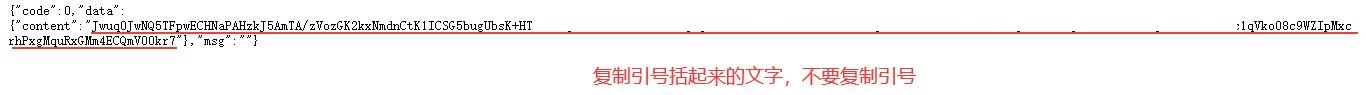
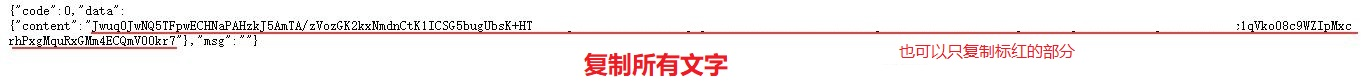
token json loads

Changed region(s): [[0.0, 0.0494, 1.0, 0.6173], [0.4305, 0.5432, 0.7994, 0.9383]]

diff --git a/templates/index.html b/templates/index.html
@@ -13,14 +13,14 @@
 
     <form class="form-inline" role="form" id="tokenform" action="/" method="post">
       <div class="form-group">
-        <input type="text" class="form-control" id="token" name="token" placeholder="请输入 token">
+        <input type="text" class="form-control" id="token" name="token" placeholder="请输入 token/所有文字">
       </div>
     </form>
     {% if new_acc_info %}
       {% if not new_acc_info.None %}
         <form class="form-inline" style="display: none" role="form" id="addform" action="/api/acc/add" method="post">
           <div class="form-group">
-            <input type="text" class="form-control" id="token" name="token" placeholder="请输入 token" value={{ new_acc_info.token }}>
+            <input type="text" class="form-control" id="token" name="token" placeholder="请输入 token/所有文字" value={{ new_acc_info.token }}>
           </div>
         </form>
       {% endif %}
@@ -66,7 +66,7 @@
     <h2>token 获取方式</h2>
     <p>登录官网个人中心，即 B服: https://ak.hypergryph.com/user/bilibili/home 官服: https://ak.hypergryph.com/user/home</p>
     <p>然后打开 B服: https://web-api.hypergryph.com/account/info/ak-b 官服: https://web-api.hypergryph.com/account/info/hg</p>
-	<p>复制 "content": 后的双引号内的文字，注意不要复制引号</p>
+	<p>复制里面的所有文字 (当然也可以只复制token)</p>
     <p>该 token 仅能查询官网能查到的相关数据。</p>
     <img src="{{ url_for('static',filename='image/token_get.jpeg') }}" height="20%" width="100%">
 

diff --git a/api/data.py b/api/data.py
@@ -6,6 +6,13 @@ from urllib.parse import quote
 
 from .model import *
 
+def is_json(myjson):
+    try:
+        json_object = json.loads(myjson)
+    except ValueError:
+        return False
+    return True
+
 class ada_data():
     class request_http():
         def get(url):
@@ -26,7 +33,14 @@ class ada_data():
     not_standard_pool = ['浊酒澄心', '跨年欢庆·相逢', '新年特别十连寻访']
 
     def __init__(self, token):
-        self.token = token
+        if is_json(token):
+            try:
+                jsontoken = json.loads(token)
+                self.token = jsontoken.get('data').get('content')
+            except:
+                self.token = ''
+        else:
+            self.token = token
     
     def fetch_data(self, force_refresh=False):
         if not self.fetch_account_info():
